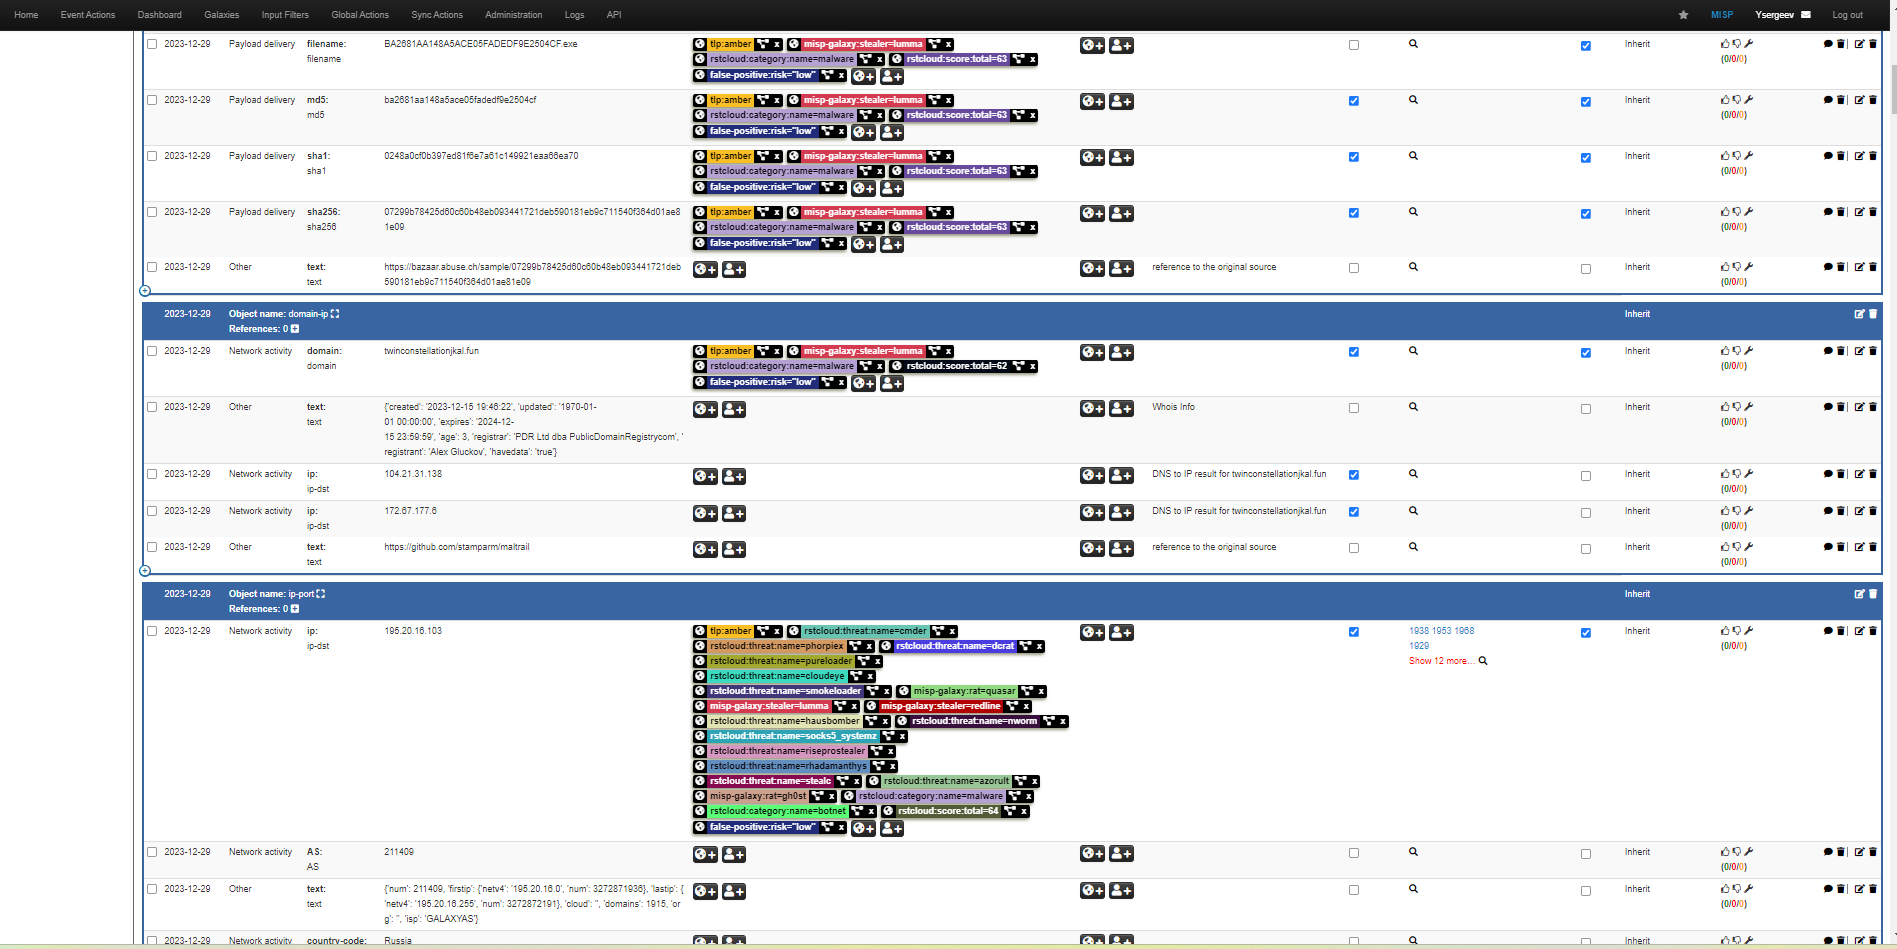
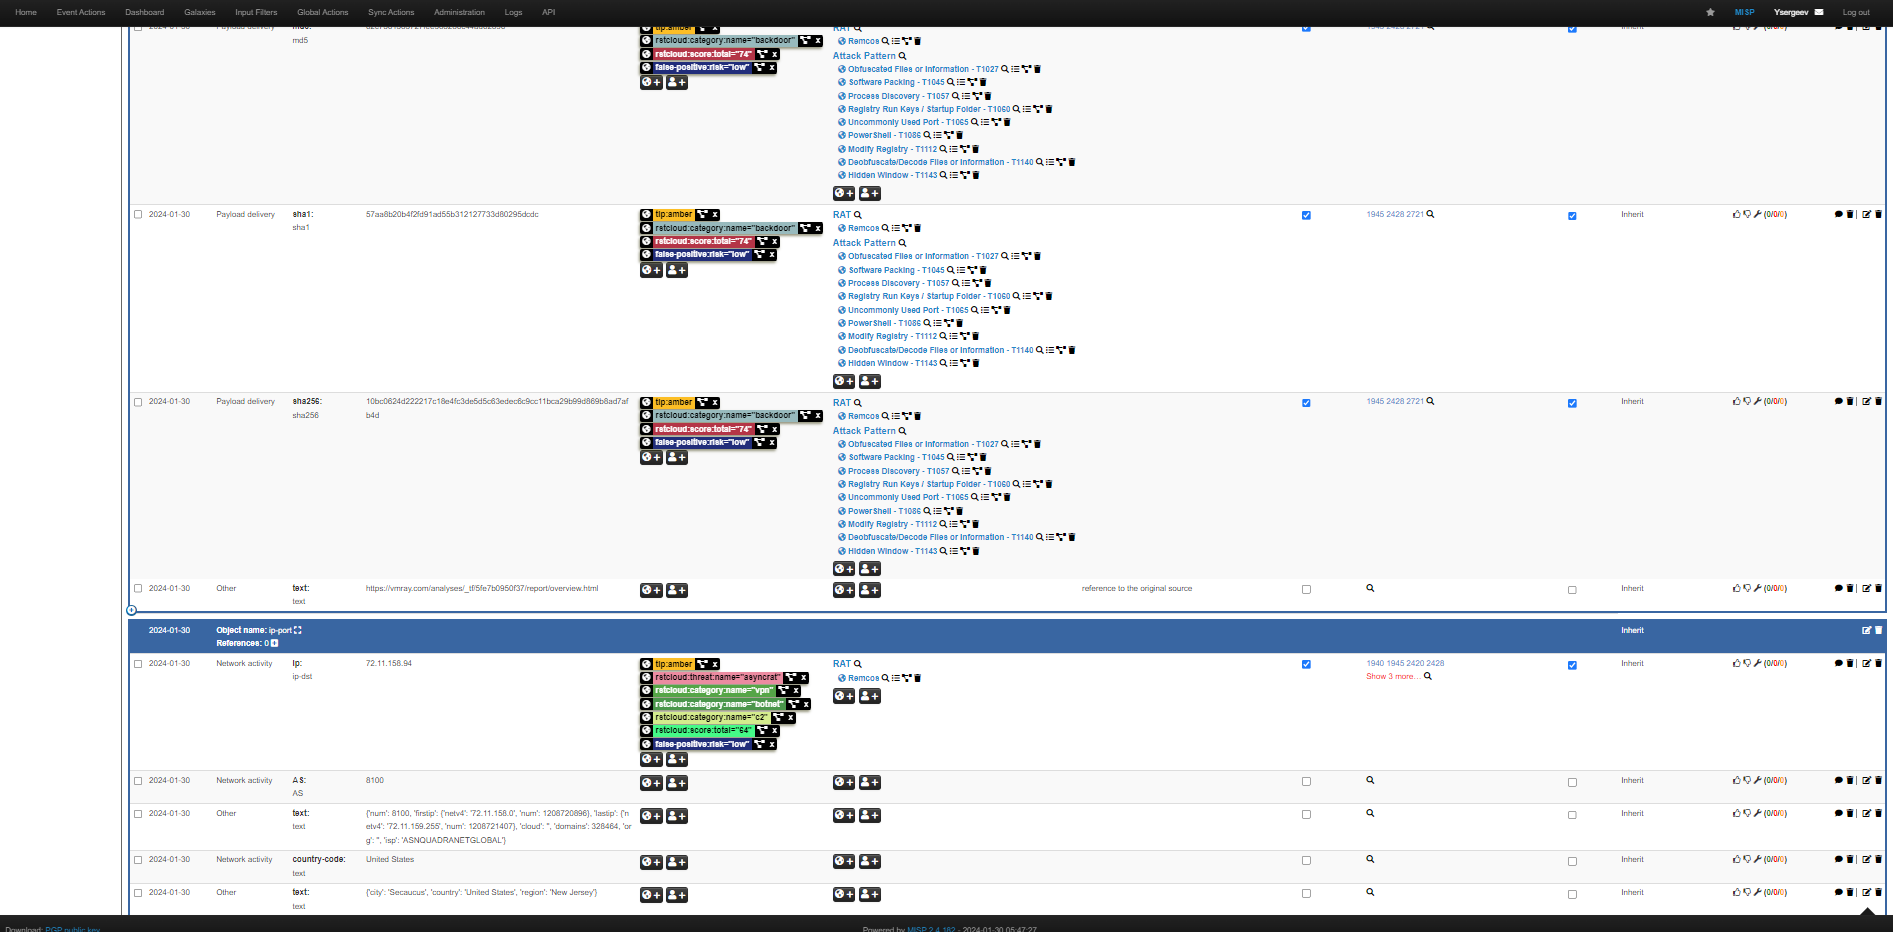
merge, tags, readme, screenshot - updated

diff --git a/rstcloud2misp.py b/rstcloud2misp.py
@@ -37,14 +37,6 @@ def init(url, key):
     return PyMISP(url, key, misp_verifycert)
 
 
-def listToString(s):
-    if isinstance(s, list):
-        delimiter = " | "
-        return delimiter.join(s)
-    elif isinstance(s, str):
-        return s
-
-
 def load_json_data(file_path):
     with open(file_path, "r", encoding="UTF-8") as file:
         data = json.load(file)
@@ -94,17 +86,31 @@ def download_feed(URL, HEADERS):
 
 
 def check_if_event_exists(misp, name, merge):
-    event_info = f"[RST Cloud] Threat Feed for: {name}"
-    if merge == "threat_by_day":
-        event_info = (
-            f"[RST Cloud] {datetime.now().date().isoformat()} Threat Feed for: {name}"
-        )
-
+    event_info = generate_event_info(merge, name)
     result = misp.search(controller="events", eventinfo=event_info)
     if len(result) > 0:
         return True
     else:
         return False
+
+
+def format_tag(name, value):
+    return f'{name}="{value}"'
+
+
+# Generates event.info for a MISP Event based on a seclected merge strategy
+# for a given threat name
+def generate_event_info(merge, name):
+    event_prefix = "[RST Cloud] Threat Feed"
+    if merge == "threat_by_day":
+        event_prefix = f"{event_prefix} {datetime.now().date().isoformat()}"
+    elif merge == "threat_by_month":
+        event_prefix = f"{event_prefix} {datetime.now().strftime('%Y-%m')}"
+    elif merge == "threat_by_year":
+        event_prefix = f"{event_prefix} {datetime.now().strftime('%Y')}"
+    else:
+        pass
+    return f"{event_prefix}: {name}"
 
 
 def check_for_hash(entry):
@@ -123,25 +129,27 @@ def check_for_hash(entry):
 
 def threat_tag_mapping(threat):
     if threat.endswith("_group"):
-        return "misp-galaxy:threat-actor=" + threat.replace("_group", "")
+        return format_tag("misp-galaxy:threat-actor", threat.replace("_group", ""))
     elif threat.endswith("_tool"):
-        return "misp-galaxy:tool=" + threat.replace("_tool", "")
+        return format_tag("misp-galaxy:tool", threat.replace("_tool", ""))
     elif threat.endswith("_stealer"):
-        return "misp-galaxy:stealer=" + threat.replace("_stealer", "")
+        return format_tag("misp-galaxy:stealer", threat.replace("_stealer", ""))
     elif threat.endswith("_backdoor"):
-        return "misp-galaxy:backdoor=" + threat.replace("_backdoor", "")
+        return format_tag("misp-galaxy:backdoor", threat.replace("_backdoor", ""))
     elif threat.endswith("_ransomware"):
-        return "misp-galaxy:ransomware=" + threat.replace("_ransomware", "")
+        return format_tag("misp-galaxy:ransomware", threat.replace("_ransomware", ""))
     elif threat.endswith("_miner"):
-        return "misp-galaxy:cryptominers=" + threat.replace("_miner", "")
+        return format_tag("misp-galaxy:cryptominers", threat.replace("_miner", ""))
     elif threat.endswith("_exploit"):
-        return "misp-galaxy:exploit-kit=" + threat.replace("_exploit", "")
+        return format_tag("misp-galaxy:exploit-kit", threat.replace("_exploit", ""))
     elif threat.endswith("_backdoor"):
-        return "misp-galaxy:backdoor=" + threat.replace("_backdoor", "")
+        return format_tag("misp-galaxy:backdoor", threat.replace("_backdoor", ""))
+    elif threat.endswith("_botnet"):
+        return format_tag("misp-galaxy:botnet", threat.replace("_botnet", ""))
     elif threat.endswith("_rat"):
-        return "misp-galaxy:rat=" + threat.replace("_rat", "")
+        return format_tag("misp-galaxy:rat", threat.replace("_rat", ""))
     else:
-        return "rstcloud:threat:name=" + threat
+        return format_tag("rstcloud:threat:name", threat)
 
 
 def add_ref_update_event(REF, event, object):
@@ -158,12 +166,7 @@ def bundle_misp_event(name, data, merge, filter, extra):
     org.name = "RST Cloud"
     org.uuid = "b170e410-0b7c-4ae0-a676-89564e7a6178"
     event = MISPEvent()
-    if merge == "threat_by_day":
-        event.info = (
-            f"[RST Cloud] {datetime.now().date().isoformat()} Threat Feed for: {name}"
-        )
-    else:
-        event.info = f"[RST Cloud] Threat Feed for: {name}"
+    event.info = generate_event_info(merge, name)
     event.Orgc = org
     event.uuid = uuid.uuid5(
         uuid.UUID("00abedb4-aa42-466c-9c01-fed23315a9b7"), event.info
@@ -174,7 +177,7 @@ def bundle_misp_event(name, data, merge, filter, extra):
     if "rstcloud" not in event_tag:
         # tag using misp galaxy notation
         event.add_tag(event_tag)
-        event.add_tag(f"rstcloud:threat:name={name}")
+        event.add_tag(format_tag("rstcloud:threat:name", name))
     else:
         # tag with rstcloud names for search consistency for all rst data
         event.add_tag(event_tag)
@@ -200,9 +203,9 @@ def bundle_misp_event(name, data, merge, filter, extra):
         for threat in entry["threat"]:
             TAG.append(threat_tag_mapping(threat))
         for rsttag in entry["tags"]["str"]:
-            TAG.append("rstcloud:category:name=" + str(rsttag))
+            TAG.append(format_tag("rstcloud:category:name", rsttag))
 
-        TAG.append("rstcloud:score:total=" + str(entry["score"]["total"]))
+        TAG.append(format_tag("rstcloud:score:total", entry["score"]["total"]))
 
         if entry["fp"] and entry["fp"]["alarm"]:
             if entry["fp"]["alarm"] == "true":
@@ -218,13 +221,15 @@ def bundle_misp_event(name, data, merge, filter, extra):
             COMMENT = str(entry["fp"]["descr"])
         if len(entry["cve"]) > 0 and entry["cve"]:
             for cve in entry["cve"]:
-                TAG.append("rstcloud:cve:id=" + cve.upper())
+                TAG.append(format_tag("rstcloud:cve:id", cve.upper()))
         if len(entry["ttp"]) > 0:
             for ttp_id in entry["ttp"]:
                 try:
                     TAG.append(
-                        "misp-galaxy:mitre-attack-pattern="
-                        + str(lookup_value(mitre_ttps, ttp_id.upper()))
+                        format_tag(
+                            "misp-galaxy:mitre-attack-pattern",
+                            lookup_value(mitre_ttps, ttp_id.upper()),
+                        )
                     )
                 except Exception as ex:
                     logger.error(
@@ -232,7 +237,7 @@ def bundle_misp_event(name, data, merge, filter, extra):
                     )
         if len(entry["industry"]) > 0 and entry["industry"]:
             for industry in entry["industry"]:
-                TAG.append("misp-galaxy:sector=" + industry)
+                TAG.append(format_tag("misp-galaxy:sector", industry))
 
         if entry["src"] and entry["src"]["report"] and len(entry["src"]["report"]) > 0:
             # extract references
@@ -508,7 +513,12 @@ if __name__ == "__main__":
     ch.setFormatter(formatter)
     logger.addHandler(ch)
     valid_log_levels = ["DEBUG", "INFO", "WARNING", "ERROR", "CRITICAL"]
-    valid_merge_strategies = ["threat_by_day", "threat"]
+    valid_merge_strategies = [
+        "threat_by_day",
+        "threat_by_month",
+        "threat_by_year",
+        "threat",
+    ]
     valid_filter_strategies = ["all", "recent", "only_new"]
     valid_extra_values = ["false", "true", "False", "True", "1", "0"]
 
@@ -555,8 +565,10 @@ if __name__ == "__main__":
             if event:
                 logger.info(f"Skipping the event for {threat} to avoid duplication")
             else:
-                create_misp_event(misp, threat, merge)
-        elif merge == "threat":
+                create_misp_event(threat, processed_data[threat], merge, filter, extra)
+        elif (
+            merge == "threat" or merge == "threat_by_month" or merge == "threat_by_year"
+        ):
             event = check_if_event_exists(misp, threat, merge)
             if event:
                 update_misp_event(threat, processed_data[threat], merge, filter, extra)

diff --git a/config.py b/config.py
@@ -18,8 +18,12 @@ distribution_level = 0
 # 5: Inherit Event
 import_extra_data = True
 path_to_mitre_json = "mitre-attack-pattern.json"
+
+# choose one of the merge strategies: threat_by_day, threat_by_month, threat_by_year, threat
 # merge_strategy="threat_by_day"
-merge_strategy = "threat"
+# merge_strategy="threat_by_month"
+merge_strategy="threat_by_year"
+# merge_strategy = "threat"
 
 # filter_strategy="all" - import the whole feed
 # filter_strategy="recent" - import only recent values (anything updated for the last 24 hours)
@@ -27,7 +31,7 @@ merge_strategy = "threat"
 filter_strategy = "recent"
 import_filter = {
     "indicator_types": ["ip", "domain", "url", "hash"],
-    "score": {"ip": 40, "domain": 25, "url": 10, "hash": 10},
+    "score": {"ip": 20, "domain": 20, "url": 10, "hash": 10},
     "setIDS": {"ip": 55, "domain": 45, "url": 30, "hash": 15},
 }
 publish = True

diff --git a/README.md b/README.md
@@ -2,16 +2,16 @@
 
 The provided script facilitates the daily download of IoCs from RST Cloud and imports them into MISP for comprehensive analysis. Currently, only attributed to at least one threat IoCs are imported as the number of unique IoCs in the [feed](https://www.rstcloud.com/rst-threat-feed/) is about 250K each day.
 
-There are a couple of event merge strategies available and also a number of filtering options configurable to find the balance between the amount of data imported, MISP performance, and capacity of CTI team to consume data.
+There are a couple of event merge strategies available and also a number of filtering options configurable to find the balance between the amount of data imported, MISP performance, and capacity of CTI team to consume data. This approach ensures that there is an abundance of valuable indicators and contextual information for each IoC, which are integrated into MISP as tags (including custom tags and common MISP taxonomies).
 
-Each day, a distinct event is created or updated for each threat name. This results in a substantial number of events, such as 300 events for threats like Akira, Azorult, Redline Stealer, Lockbit, Cobalt Strike, and others on one day, followed by 350 events on the next day, and so forth. This approach ensures that there is an abundance of valuable indicators and contextual information for each IoC, which are integrated into MISP as tags (including custom tags and common MISP taxonomies).
+By default a distinct event is created or updated for each threat name per year. This results in a comfortable number of events around 5000 events a year for threats like Akira, Azorult, Redline Stealer, Lockbit, Cobalt Strike, and others. However, the size of these events may be too big for some organisations as they accumulated over time. So, there are also options to split events related to certain threats by month or by day to have more events with a msaller amount of attributes associaed with them.
 
 ![RST Cloud attributes in MISP](/screenshot_attributes.png)
 ![RST Cloud events in MISP](/screenshot.png)
 
 Use cron to configure the script to run daily from 1 am to 3 am UTC.
 
-To trial, please, contact us [https://www.rstcloud.com/#free-trial](https://www.rstcloud.com/#free-trial)
+To trial, please, contact us at [trial@rstcloud.net](mailto:trial@rstcloud.net) or use the following link [https://www.rstcloud.com/#free-trial](https://www.rstcloud.com/#free-trial)
 
 ## Configuration
 
@@ -21,7 +21,7 @@ To trial, please, contact us [https://www.rstcloud.com/#free-trial](https://www.
 
 Obtain a key and populate the following variables in the file named config.py:
 
-``` code=python
+```code=python
 rst_api_key = 'a key received from RST Cloud'
 misp_url = 'https://127.0.0.1/'
 misp_key = 'a key generated in MISP'
@@ -43,14 +43,20 @@ Please choose a strategy how MISP events are filtered:
 
 Please choose a strategy how MISP events are to be created:
 
-1. merge_strategy="threat"
+1. merge_strategy="threat_by_year"
    - default option
-   - all indicators are grouped by a threat name
-   - events tend to become bigger and bigger over time
-2. merge_strategy="threat_by_day"
+   - all indicators are grouped by a threat name and by year
+   - around 5000 events a year with thousands of indicators in each event
+2. merge_strategy="threat_by_month"
+   - all indicators are grouped by a threat name and by month in the year
+   - up to 12 times more events, but less attributes per event
+3. merge_strategy="threat_by_day"
    - all indicators are grouped by a threat name per day
    - events are smaller but there are more of them (the worst case scenario is 365 events per each malware a year)
    - MISP correlation function may be impacting query performance
+4. merge_strategy="threat"
+   - all indicators are grouped just by a threat name
+   - events tend to become bigger and bigger over time
 
 ### Advanced
 
